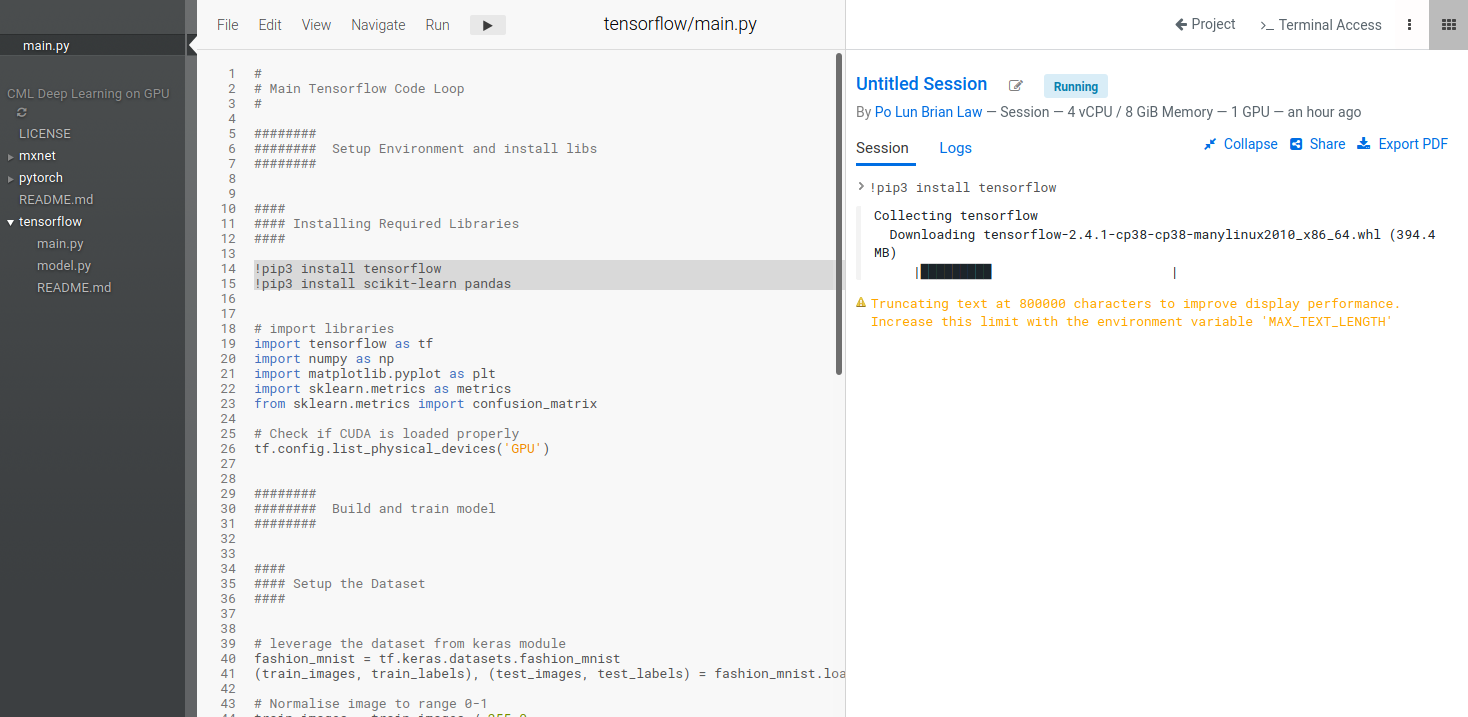
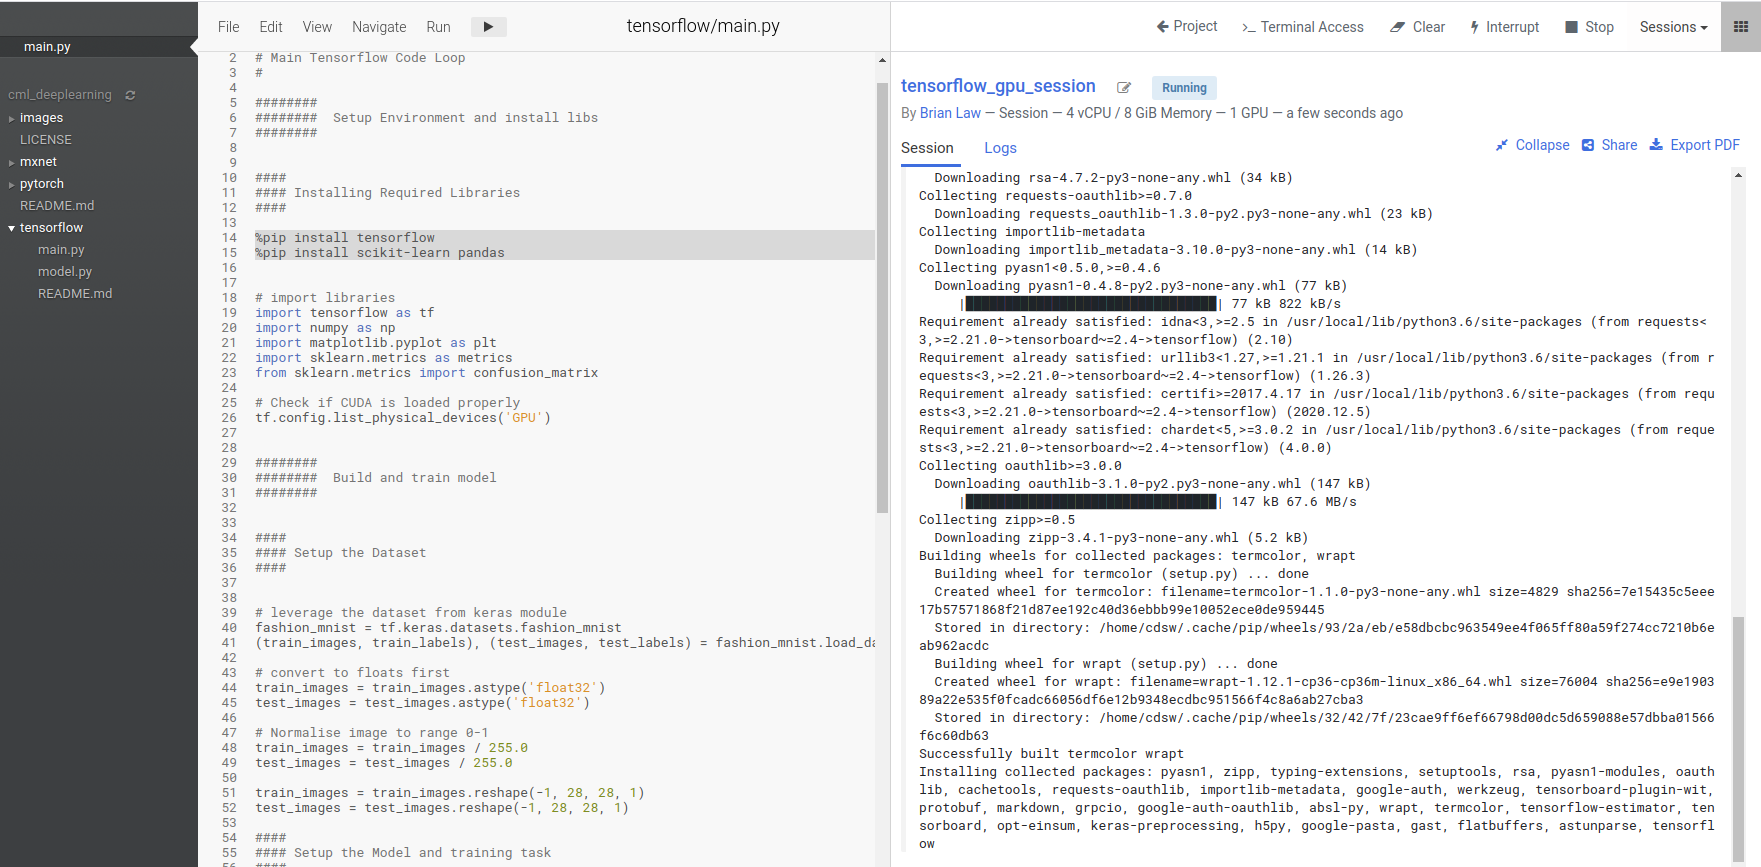
updating the text body and also updating some of the screens

Changed region(s): [[0.0, 0.0, 1.0, 1.0], [0.3678, 0.0, 0.5211, 0.0614]]

diff --git a/pytorch/main.py b/pytorch/main.py
@@ -11,8 +11,8 @@
 #### Installing Required Libraries
 ####
 
-%pip3 install torch==1.7.1+cu110 torchvision==0.8.2+cu110 -f https://download.pytorch.org/whl/torch_stable.html
-%pip3 install scikit-learn pandas
+%pip install torch==1.7.1+cu110 torchvision==0.8.2+cu110 -f https://download.pytorch.org/whl/torch_stable.html
+%pip install scikit-learn pandas
 
 
 # Load Libraries

diff --git a/mxnet/main.py b/mxnet/main.py
@@ -10,8 +10,8 @@
 #### Installing Required Libraries
 ####
 
-%pip3 install mxnet-cu110==1.9.0b20210226 -f https://dist.mxnet.io/python/cu110
-%pip3 install scikit-learn pandas
+%pip install mxnet-cu110==1.9.0b20210226 -f https://dist.mxnet.io/python/cu110
+%pip install scikit-learn pandas
 
 # Load Libraries
 import mxnet as mx

diff --git a/tensorflow/main.py b/tensorflow/main.py
@@ -11,8 +11,8 @@
 #### Installing Required Libraries
 ####
 
-%pip3 install tensorflow
-%pip3 install scikit-learn pandas
+%pip install tensorflow
+%pip install scikit-learn pandas
 
 
 # import libraries
